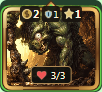
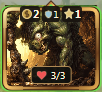
Preserve mini card hover across polling and neutralize cell ownership

Changed region(s): [[0.0, 0.0, 1.0, 1.0], [0.4706, 0.1304, 0.5, 0.1957]]

diff --git a/www/assets/js/battle-mini-card.js b/www/assets/js/battle-mini-card.js
@@ -6,6 +6,7 @@
     var tip = null, trigger = null, describedNode = null, kind = '', pinned = false;
     var hoverCard = null, zoom = null, timer = 0, hoverReady = false;
     var nameTimer = 0, fadeTimer = 0, dismissedName = null;
+    var pointerX = -1, pointerY = -1, reconcileFrame = 0;
     var hover = matchMedia('(hover:hover) and (pointer:fine)');
     var reduced = matchMedia('(prefers-reduced-motion:reduce)');
 
@@ -35,7 +36,7 @@
     function closeHint() {
         clearTimeout(nameTimer);
         clearTimeout(fadeTimer);
-        if (tip) tip.classList.remove('is-fading');
+        if (tip) tip.classList.remove('is-fading', 'is-entering');
         clearDescription();
         trigger = null;
         kind = '';
@@ -46,7 +47,7 @@
         var card = cardAt(node) || node;
         var r = card.getBoundingClientRect();
         tip.style.left = Math.max(8, Math.min(r.left + r.width / 2 - tip.offsetWidth / 2, innerWidth - tip.offsetWidth - 8)) + 'px';
-        var top = hintKind === 'name' ? r.bottom + 20 : r.top + r.height / 2 - tip.offsetHeight / 2;
+        var top = hintKind === 'name' ? r.bottom + 8 : r.top + r.height / 2 - tip.offsetHeight / 2;
         var indicators = card.querySelector('.mini-indicators');
         if (hintKind === 'indicator' && indicators) top = Math.max(top, indicators.getBoundingClientRect().bottom + 4);
         tip.style.top = Math.max(8, Math.min(top, innerHeight - tip.offsetHeight - 8)) + 'px';
@@ -85,6 +86,11 @@
         describedNode.setAttribute('aria-describedby', t.id);
         t.hidden = false;
         placeHint(node, hintKind);
+        if (hintKind === 'name' && hover.matches && !reduced.matches) {
+            t.classList.add('is-entering');
+            void t.offsetWidth;
+            t.classList.remove('is-entering');
+        }
         if (hintKind === 'name' && !(node.closest('.card-link') || node).matches(':focus-visible')) {
             nameTimer = setTimeout(function () {
                 if (trigger !== node || kind !== 'name') return;
@@ -100,13 +106,15 @@
         var indicator = node.closest ? node.closest('[data-mini-hint]') : null;
         var card = cardAt(node);
         if (indicator) show(indicator, 'indicator');
-        else if (card && !card.classList.contains('mini-hidden')) { if (dismissedName !== card) show(card, 'name'); }
+        else if (card && !card.classList.contains('mini-hidden')) { if (dismissedName !== card && (reduced.matches || !hover.matches || zoom && hoverCard === card)) show(card, 'name'); }
         else closeHint();
     }
     function stopZoom(immediate) {
         clearTimeout(timer);
         timer = 0;
+        if (hoverCard) hoverCard.classList.remove('mini-zoom-source');
         hoverCard = null;
+        if (immediate) document.querySelectorAll('.mini-zoom-source').forEach(function (node) { node.classList.remove('mini-zoom-source'); });
         if (immediate) document.querySelectorAll('.battle-mini-zoom').forEach(function (node) { node.remove(); });
         if (!zoom) return;
         var old = zoom;
@@ -115,19 +123,10 @@
         if (immediate || reduced.matches) old.remove();
         else setTimeout(function () { old.remove(); }, 250);
     }
-    function startZoom(card) {
-        if (!hover.matches || reduced.matches || card.classList.contains('mini-hidden')) return;
-        if (hoverCard === card) return;
-        stopZoom(true);
-        hoverCard = card;
-        timer = setTimeout(function () {
-            if (!card.isConnected || hoverCard !== card) return;
+    function paintZoom(z, card) {
             var r = card.getBoundingClientRect();
-            var z = document.createElement('div');
-            z.className = 'battle-mini-zoom';
-            z.setAttribute('aria-hidden', 'true');
-            z.inert = true;
             var clone = card.cloneNode(true);
+            clone.classList.remove('mini-zoom-source');
             var appearance = getComputedStyle(card);
             clone.style.outline = appearance.outline;
             clone.style.outlineOffset = appearance.outlineOffset;
@@ -136,17 +135,32 @@
             clone.querySelectorAll('[id]').forEach(function (e) { e.removeAttribute('id'); });
             clone.removeAttribute('data-mini-card');
             clone.removeAttribute('data-mini-name');
-            z.append(clone);
+            z.replaceChildren(clone);
             // The visual copy never owns hit testing. Keep its 1.25 scale inside the viewport.
             z.style.left = Math.max(13, Math.min(r.left, innerWidth - r.width - 13)) + 'px';
             z.style.top = Math.max(12, Math.min(r.top, innerHeight - r.height - 12)) + 'px';
             z.style.width = r.width + 'px';
             z.style.height = r.height + 'px';
             z.style.opacity = appearance.opacity;
+            card.classList.add('mini-zoom-source');
+    }
+    function startZoom(card) {
+        if (!hover.matches || reduced.matches || card.classList.contains('mini-hidden')) return;
+        if (hoverCard === card) return;
+        stopZoom(true);
+        hoverCard = card;
+        timer = setTimeout(function () {
+            if (!card.isConnected || hoverCard !== card) return;
+            var z = document.createElement('div');
+            z.className = 'battle-mini-zoom';
+            z.setAttribute('aria-hidden', 'true');
+            z.inert = true;
+            paintZoom(z, card);
             document.body.append(z);
             zoom = z;
             void z.offsetWidth;
             z.classList.add('is-open');
+            if (!pinned && hoverReady) contextHint(document.elementFromPoint(pointerX, pointerY) || card);
         }, 200);
     }
     // Capture before battle-sync: only indicator/tooltip clicks are consumed.
@@ -183,18 +197,23 @@
     }, true);
     document.addEventListener('pointerover', function (e) {
         if (e.pointerType === 'touch' || !hover.matches) return;
+        pointerX = e.clientX; pointerY = e.clientY;
         var card = cardAt(e.target);
+        if (hoverCard && !hoverCard.isConnected) { queueReconcile(); return; }
         if (card) startZoom(card);
         contextHint(e.target);
     });
     document.addEventListener('pointermove', function (e) {
         if (e.pointerType === 'touch' || !hover.matches) return;
+        pointerX = e.clientX; pointerY = e.clientY;
         hoverReady = true;
+        if (hoverCard && !hoverCard.isConnected) { queueReconcile(); return; }
         contextHint(e.target);
     });
     document.addEventListener('pointerout', function (e) {
         if (e.pointerType === 'touch' || !hover.matches) return;
         var card = cardAt(e.target);
+        if (card && !card.isConnected) { queueReconcile(); return; }
         if (card && !card.contains(e.relatedTarget)) {
             if (tip && tip.contains(e.relatedTarget)) return;
             dismissedName = null;
@@ -217,7 +236,35 @@
         closeHint();
         stopZoom(true);
     }
-    document.addEventListener('berserk:battle-updated', refresh);
+    function queueReconcile() {
+        if (reconcileFrame) return;
+        reconcileFrame = requestAnimationFrame(function () {
+            reconcileFrame = 0;
+            if (trigger && !trigger.isConnected) { hoverReady = false; closeHint(); }
+            if (!hoverCard || hoverCard.isConnected) return;
+            var previous = hoverCard;
+            var id = previous.getAttribute('data-mini-card');
+            var fresh = document.querySelector('[data-mini-card="' + id + '"]');
+            var hit = document.elementFromPoint(pointerX, pointerY);
+            var rect = fresh && fresh.getBoundingClientRect();
+            if (!fresh || fresh.classList.contains('mini-hidden') || !rect.width ||
+                pointerX < rect.left || pointerX > rect.right || pointerY < rect.top || pointerY > rect.bottom ||
+                (cardAt(hit) !== fresh && !(tip && tip.contains(hit)))) {
+                dismissedName = null;
+                stopZoom(true);
+                return;
+            }
+            if (dismissedName === previous) dismissedName = fresh;
+            if (zoom) {
+                hoverCard = fresh;
+                paintZoom(zoom, fresh);
+            } else {
+                hoverCard = null;
+                startZoom(fresh);
+            }
+        });
+    }
+    document.addEventListener('berserk:battle-updated', queueReconcile);
     window.addEventListener('scroll', function (e) {
         if (tip && tip.contains(e.target)) return;
         refresh();
@@ -226,7 +273,7 @@
     hover.addEventListener('change', refresh);
     reduced.addEventListener('change', refresh);
     new MutationObserver(function () {
-        if ((trigger && !trigger.isConnected) || (hoverCard && !hoverCard.isConnected)) refresh();
+        if ((trigger && !trigger.isConnected) || (hoverCard && !hoverCard.isConnected)) queueReconcile();
     }).observe(document.querySelector('[data-battle-sync-root]') || document.body, {childList:true, subtree:true});
     refresh();
 })();

diff --git a/www/assets/css/battle-mini-card.css b/www/assets/css/battle-mini-card.css
@@ -5,8 +5,8 @@
 .battle-page [data-mini-card-design="v2"] .fly-zone,.battle-page [data-mini-card-design="v2"] .piles{width:var(--battle-cell-width);height:calc(3 * var(--battle-cell-height) + 2 * var(--battle-cell-gap));grid-template-rows:repeat(3,var(--battle-cell-height))}
 .battle-page [data-mini-card-design="v2"] .fly-slot,.battle-page [data-mini-card-design="v2"] .battle-side-slot{width:var(--battle-cell-width);height:var(--battle-cell-height)}
 .battle-page [data-mini-card-design="v2"] :is(.card-link,.fly-card,.fly-page-card){display:flex;align-items:center;justify-content:center}
-.battle-page .battle-card.battle-mini-card{position:relative;isolation:isolate;display:block;flex:0 0 auto;box-sizing:border-box;width:102px;height:92px;padding:0;border:0;border-radius:7px;overflow:hidden;background:#24412c;color:#fff4df;font:10px/1.1 system-ui,sans-serif;text-align:left;cursor:inherit}
-.battle-page .battle-card.battle-mini-card.mini-enemy{background:#4c2424}
+.battle-page .battle-card.battle-mini-card{position:relative;isolation:isolate;display:block;flex:0 0 auto;box-sizing:border-box;width:102px;height:92px;padding:0;border:0;border-radius:7px;overflow:hidden;background:none;color:#fff4df;font:10px/1.1 system-ui,sans-serif;text-align:left;cursor:inherit}
+.battle-page .battle-card.battle-mini-card.mini-enemy{background:none}
 .battle-page .battle-mini-card .mini-art{position:absolute;left:5px;top:5px;width:92px;height:82px;object-fit:cover;pointer-events:none}
 .battle-page .battle-mini-card .mini-frame{position:absolute;inset:0;width:102px;height:92px;object-fit:contain;z-index:4;pointer-events:none}
 .battle-page .mini-indicators{position:absolute;top:6px;left:50%;transform:translateX(-50%);width:max-content;max-width:88px;display:flex;flex-wrap:wrap;align-items:center;justify-content:center;gap:2px;z-index:6}
@@ -41,3 +41,7 @@
 .battle-mini-tooltip[data-kind="name"]{pointer-events:none}
 
 .battle-mini-tooltip[data-kind="name"]{padding:0;border:0;border-radius:0;background:transparent;box-shadow:none;overflow:visible;max-width:min(144px,calc(100vw - 16px));font-weight:400}
+
+.battle-mini-tooltip.is-entering{opacity:0}
+
+.battle-page .battle-mini-card.mini-zoom-source{opacity:0!important}

diff --git a/tools/test_mini_card_stage4.php b/tools/test_mini_card_stage4.php
@@ -67,6 +67,8 @@ try {
  $before=serialize($state->toArray());
  $render=fn($ui)=>(new BattleScreen($tpl))->prepare($state,'host','host',null,$cardsInfo,$ui)['data'];
  $data=$render(['sel'=>1,'mode'=>'strike']);
+ $dom=new DOMDocument();@$dom->loadHTML($data['field_html']);$x=new DOMXPath($dom);
+ battleSnapshotAssert($x->query('//*[contains(concat(" ",normalize-space(@class)," ")," field-cell ") and (contains(concat(" ",normalize-space(@class)," ")," own ") or contains(concat(" ",normalize-space(@class)," ")," enemy "))]')->length===0,'Live cells do not have ownership');
  battleSnapshotAssert($before===serialize($state->toArray()),'View projection does not mutate game state');
  battleSnapshotAssert(str_contains($data['field_html'],'mini-art')&&str_contains($data['field_html'],'frame_enemy_102x92'),'Actual renderer uses new image/frame');
  $hpCases=[];$savedHp=$c->hp;$savedMax=$c->hpMax;foreach([7,13,100] as $value){$c->hp=$value;$c->hpMax=$value;$hpCases[(string)$value]=$render(['sel'=>1,'mode'=>'strike']);}$c->hp=$savedHp;$c->hpMax=$savedMax;

diff --git a/src/View/Screen/BattleScreen.php b/src/View/Screen/BattleScreen.php
@@ -383,7 +383,7 @@ final class BattleScreen
 
                     $ownerClass  = $card->owner === $playerKey ? 'own' : 'enemy';
                     $closedClass = $card->closed ? 'closed' : '';
-                    $cellClass   = "$ownerClass $closedClass";
+                    $cellClass = \Berserk\View\Ui\LiveBattleCard::enabled() ? $closedClass : "$ownerClass $closedClass";
                     if ($isHiddenForMe) $cellClass .= ' hidden';
                     if ($card->dying)   $cellClass .= ' dying';
 

diff --git a/docs/minicard-stage41.md b/docs/minicard-stage41.md
@@ -71,3 +71,13 @@ Rollback прежней карточки: BERSERK_LEGACY_MINICARDS=1 для вс
 Подключены предоставленные frame_friendly_102x92.svg и frame_enemy_102x92.svg; frame_neutral_102x92.svg сохранён рядом для нейтрального оформления без выдумывания новых игровых состояний. Подсказка имени составлена из nameplate_left.svg/nameplate_right.svg и адаптированного nameplate_center.css (battle-mini-nameplate.css). Максимальная ширина128px, одна строка, text-overflow:ellipsis; полное имя остаётся в доступных атрибутах карты и InfoPanel. Подсказки монет/брони/яда удалены, показатели и aria-label сохранены; клики по индикаторам не запускают игровое действие. Подсказка активных эффектов сохранена. Проверки PHP и browser пройдены; скриншоты обновлены.
 
 Последняя настройка названия: Georgia12px, ширина до144px; подсказка центрирована под картой с зазором20px. Автоисчезновение1500+250ms не сбрасывает zoom. Браузерная проверка положения снизу и сохранения увеличения пройдена.
+
+## Исправление опроса таймера и слоя клетки
+
+Причина прежнего сброса zoom: berserk:battle-updated вызывал полный refresh и при обычном опросе таймера. Теперь события и MutationObserver объединяются через requestAnimationFrame: heartbeat сохраняет zoom, а при замене DOM над той же картой портал обновляется без повторной анимации. Скрытие/удаление карты, смена цели под курсором и закрытие поля по-прежнему очищают zoom; устаревшие подсказки удаляются.
+
+Появление имени синхронизировано с zoom: общая задержка200ms и анимация250ms ease-out. Подсказка поднята: зазор8px вместо20px. Прозрачная увеличенная копия не дублирует исходную рамку: оригинал визуально скрыт, но сохраняет прежнюю область клика.
+
+У live field-cell удалены классы own/enemy; принадлежность хранится на мини-карте. Старые CSS-правила остаются для legacy/реплеев и не применяются к новым клеткам. Фон обычной мини-карты и mini-enemy — none. Оформление скрытого вопроса сохранено. Центральная черта armor_compact.svg удалена.
+
+Проверены серия heartbeat в течение нескольких секунд, сохранение zoom при замене источника AJAX, синхронный старт, нейтральные классы клеток, прозрачный фон, отсутствие палочки в SVG, PHP snapshot, legacy-визуальный тест, дружественная атака и автоселект целей. Скриншоты обновлены.
